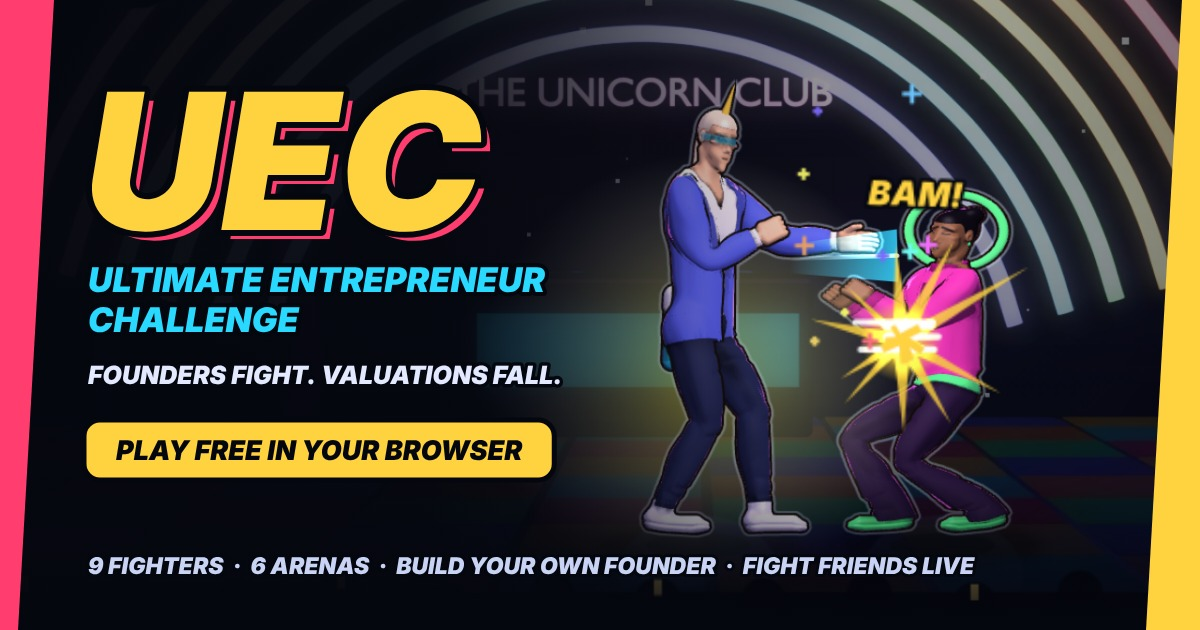
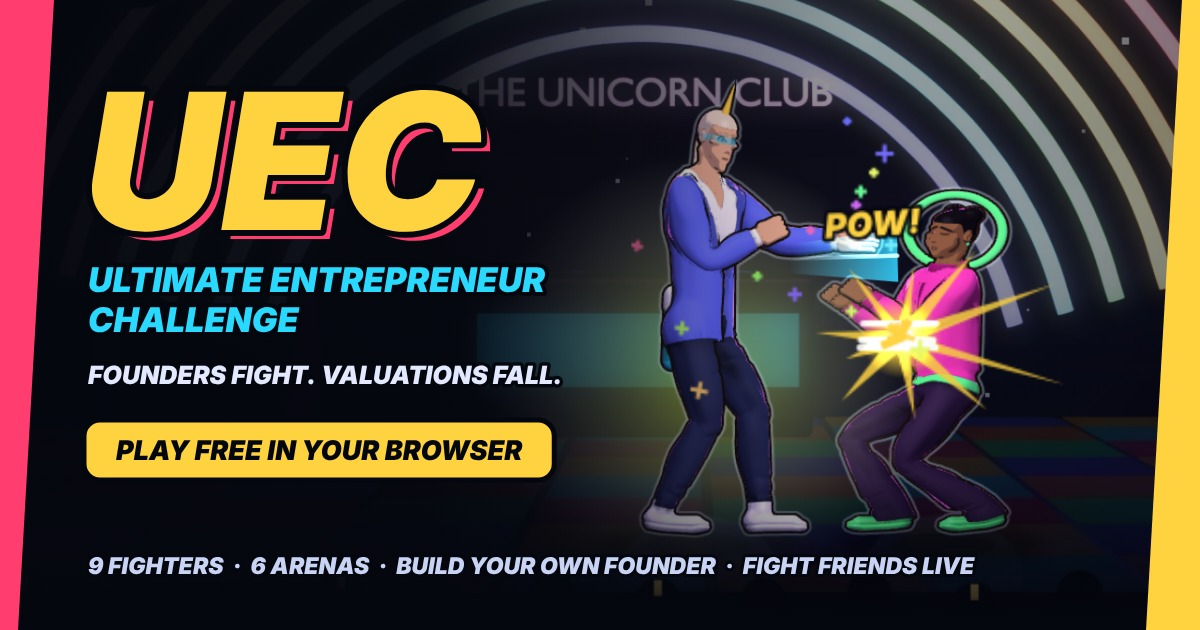
v3.23.1: the faces fixed
The owner, with Cathie's portrait: the characters look really messed up.
Every one of the nine had grey smudges under the fringe and round the eyes
(v3.23's baked shade on the skin) and a pale, waxy face (the skin
highlight and the sky term washing the painted features out).

Skin and hair are now lit their own way (toon.js softOf, occlusionOf,
skyOf, from GL3D.HEAD): no baked shade, no sky, crisp tones, no highlight
on skin and a faint one on hair. Clothes keep v3.23's light. The
portraits match v3.22.4's faces again. Render only, SIM_VERSION 15.

HANDOFF also has the owner's phone test (round thirteen): the new light
costs the Ahlo 1 about a frame a second and the iPhones nothing that shows.

Claude-Session: https://claude.ai/code/session_01HVpeDqPziq2XcJWsmeToHF

diff --git a/test/gl3d.test.js b/test/gl3d.test.js
@@ -635,3 +635,31 @@ test('the key line is thin and faint, and still there', async () => {
   assert.ok(STYLIZE.KEYLINE_PX <= 1.5 && STYLIZE.KEYLINE_PX >= 1, `${STYLIZE.KEYLINE_PX} px`);
   assert.ok(STYLIZE.KEYLINE_A <= 0.45 && STYLIZE.KEYLINE_A >= 0.25, `alpha ${STYLIZE.KEYLINE_A}`);
 });
+
+// v3.23 lit skin and hair like cloth: the baked shade left grey smudges under
+// a fringe and round the eyes, the skin highlight and the sky washed a face
+// to a pale, waxy mask (the owner, 2026-11-21, with Cathie's portrait: "the
+// characters look really messed up - needs fixing"). Skin and hair take
+// their own softness, no baked shade, no sky, and skin no highlight.
+test('skin and hair are lit cleanly: no baked shade, no sky, no skin highlight, crisper tones', async () => {
+  const { GL3D } = await import('../src/config.js');
+  const { softOf, occlusionOf, skyOf, glossOf } = await import('../src/engine/gl3d/toon.js');
+  for (const role of ['skin', 'hair']) {
+    assert.equal(occlusionOf(role), 0, `${role} takes the baked shade`);
+    assert.equal(skyOf(role), 0, `${role} takes the sky`);
+    assert.ok(softOf(role) > 0 && softOf(role) < GL3D.SOFT / 2, `${role} turns tone to tone across ${softOf(role)}`);
+  }
+  assert.equal(glossOf('skin')[0], 0, 'skin has a highlight');
+  assert.ok(glossOf('hair')[0] <= 0.1, 'hair\'s highlight whitens it');
+  // cloth keeps the modelled light
+  for (const role of ['suit', 'pants', 'suit*0.78']) {
+    assert.equal(softOf(role), GL3D.SOFT);
+    assert.equal(occlusionOf(role), GL3D.OCCLUSION);
+    assert.equal(skyOf(role), GL3D.SKY);
+  }
+  // and at SOFT 0 everything, heads too, is the flat bands
+  const soft = GL3D.SOFT;
+  try { GL3D.SOFT = 0; assert.equal(softOf('skin'), 0); } finally { GL3D.SOFT = soft; }
+  const toon = readFileSync(new URL('../src/engine/gl3d/toon.js', import.meta.url), 'utf8');
+  assert.match(toon, /gl\.uniform3f\(loc\.uSoft, softOf\(p\.role\), skyOf\(p\.role\), GL3D\.RIM_SOFT\);\s*gl\.uniform1f\(loc\.uOcc, occlusionOf\(p\.role\)\);/);
+});

diff --git a/src/engine/gl3d/toon.js b/src/engine/gl3d/toon.js
@@ -263,6 +263,20 @@ export const roleColour = (palette, role, own) => {
 // role in shade ('suit*0.78') is its palette colour's material.
 export const glossOf = (role) => GL3D.GLOSS[String(role || '').split('*')[0]] || GL3D.GLOSS.other;
 
+// Skin and hair are lit their own way (GL3D.HEAD, v3.23.1): a face is a
+// painted decal on a smooth head, and the modelled light and the baked shade
+// that give a coat its folds made it a pale, waxy mask with grey smudges
+// under the fringe and round the eyes (the owner, 2026-11-21: "the
+// characters look really messed up"). Their tones turn across HEAD.SOFT, not
+// SOFT, so a face keeps a clean shadow side as in v3.22, they take
+// HEAD.OCCLUSION of the baked shade and HEAD.SKY of the sky (which paled a
+// forehead and the top of a cheek). At SOFT 0 everything is flat bands.
+const HEAD_ROLES = new Set(['skin', 'hair']);
+const onHead = (role) => HEAD_ROLES.has(String(role || '').split('*')[0]);
+export const softOf = (role) => (GL3D.SOFT > 0 && onHead(role) ? GL3D.HEAD.SOFT : GL3D.SOFT);
+export const occlusionOf = (role) => (onHead(role) ? GL3D.HEAD.OCCLUSION : GL3D.OCCLUSION);
+export const skyOf = (role) => (onHead(role) ? GL3D.HEAD.SKY : GL3D.SKY);
+
 // Three parts of a 3D fighter, each on in the game: the antialiased drawing
 // buffer (read when a context is made, so a change needs a new one:
 // gl3d/index.js dropLayer3D), the ink outline (the inflated hull drawn behind
@@ -641,6 +655,8 @@ export function createToon({ onScreen = null } = {}) {
           if (!ink) {
             gl.uniform3fv(loc.uColor, colours(p));
             gl.uniform2fv(loc.uGloss, glossOf(p.role));
+            gl.uniform3f(loc.uSoft, softOf(p.role), skyOf(p.role), GL3D.RIM_SOFT);
+            gl.uniform1f(loc.uOcc, occlusionOf(p.role));
           }
           if (alpha !== undefined) gl.uniform1f(loc.uAlpha, alpha);
           if (faced) gl.uniform4fv(loc.uFaceCell, face.cell);

diff --git a/src/config.js b/src/config.js
@@ -1,7 +1,7 @@
 // Central tuning for the whole game. All gameplay numbers live here.
 
 // Bump this on every release — it's rendered on the title screen.
-export const VERSION = 'v3.23';
+export const VERSION = 'v3.23.1';
 
 // Every player fights on identical footing. Your base character is pure
 // cosmetics: it decides how you LOOK, never how hard you hit. Ranked points
@@ -804,9 +804,15 @@ export const GL3D = {
   SKY: 0.12,
   RIM_SOFT: 0.10,
   GLOSS: {
-    skin: [0.16, 12], hair: [0.20, 22], shoe: [0.24, 34], brass: [0.6, 44], frame: [0.35, 44],
+    skin: [0, 12], hair: [0.08, 22], shoe: [0.24, 34], brass: [0.6, 44], frame: [0.35, 44],
     lens: [0.5, 70], case: [0.14, 20], other: [0.05, 8],
   },
+  // Skin and hair (v3.23.1, toon.js softOf): a face is a painted decal, and
+  // the light that models a coat made it a pale, waxy mask with grey smudges
+  // under the fringe (the owner: "the characters look really messed up").
+  // Their tones turn across HEAD.SOFT, not SOFT; they take HEAD.OCCLUSION of
+  // the baked shade and HEAD.SKY of the sky; skin has no highlight (GLOSS).
+  HEAD: { SOFT: 0.08, OCCLUSION: 0, SKY: 0 },
   SHADOW_TINT: [0.86, 0.88, 1.06],
   RIM: 0.40,
   RIM_COLOR: [0.5, 0.47, 0.42],   // the rim on the key side, scaled by RIM

diff --git a/docs/HANDOFF.md b/docs/HANDOFF.md
@@ -16,15 +16,18 @@ step and no dependencies, and the repository is the website: GitHub Pages
 serves `main` at `https://aurmada.github.io/uec-ultimate-entrepreneur-challenge/`,
 so a push to `main` is a release.
 
+- **Built, not yet released:** v3.23.1 (2026-11-21), on `claude/v3.23`:
+  the faces fixed (see "v3.23.1"). Render only, `SIM_VERSION` still 15.
+  Waiting for the owner's word to push.
 - **Live:** v3.23, released 2026-11-17 (`VERSION` in `src/config.js`;
   `SIM_VERSION` 15 in `src/net/online.js`), with v3.22.5 inside it (v3.22.5
   was never released on its own). 3D only.
 - **What v3.23 changed:** the fighters in modelled light, all nine rebuilt
   with baked shade and cloth folds, the cast's heights brought in to about
   15%, and a thinner, fainter key line (see "v3.23"). It plays only v3.23
-  online. Not yet timed on a phone: run round thirteen of
-  `lab/phone-test.html` on the live site (its `d3-flat` setup says what the
-  new light costs), and tell the owner if it is over rule 9's budget.
+  online. Timed on the owner's phones 2026-11-20 (see "v3.23.1"): the new
+  light costs about a frame a second on the Ahlo 1 and nothing that shows
+  on the iPhones.
 - **What v3.22.5 changed:** a check of everything before launch: the fight
   sharp on a monitor, the share card cut from the 3D game, whole names on a
   phone, K.O.! alone, a larger VS splash, and the game's words without em
@@ -411,6 +414,40 @@ Everything below is how the game got here: each release with what changed,
 why, what was measured and what was tried and dropped, then the work on
 branches, the 3D prototype's story, October's plan and the opening of this
 file as it stood on 2026-11-12.
+
+## v3.23.1, built 2026-11-21: the faces fixed
+
+The owner, four days after v3.23 went out, with a phone screenshot of
+Cathie's portrait: "the characters look really messed up - needs fixing".
+Rendered beside v3.22.4, every one of the nine had the same two faults, both
+from v3.23's light, which was tuned on bodies at fight size and never looked
+at in a portrait:
+
+- **Grey smudges** across the forehead under a fringe and round the eyes:
+  the baked shade (`occlude`) on the skin. A face is a painted decal on a
+  smooth head, and the hair sits a few millimetres off it, so every ray from
+  the forehead met the fringe.
+- **A pale, waxy mask**: the skin's broad highlight (`GLOSS.skin`) and the
+  sky term brightening every surface that faces up, which together washed
+  the painted features out.
+
+Switching each piece off in turn (`lab`-style renders of the nine portraits)
+put the blame there, and not on the face decals, which had scaled with each
+head when the heights were brought in. The fix is in `toon.js`: skin and
+hair are lit their own way (`softOf`, `occlusionOf`, `skyOf`, by role,
+from `GL3D.HEAD`): no baked shade, no sky, tones that turn across 0.08 of
+the key light's cosine (crisp, as v3.22's bands were, a little softened),
+no highlight on skin and a faint one on hair. Clothes keep everything v3.23
+gave them. The portraits now match v3.22.4's faces, and the fight at full
+size is unchanged but for the heads. Render only: `SIM_VERSION` stays 15.
+
+**The phone test** (round thirteen, rows 152 to 162 of `perf_reports`,
+2026-11-20 and 21, all on v3.23): the Ahlo 1 drew 19.5 frames a second in
+full (`d3`) and 20.8 and 20.0 with the flat bands (`d3-flat`), so the
+modelled light costs it about a frame a second; half resolution still gives
+28, which is where its governor settles. The owner's iPhones drew 55 to 60
+in full and the iPad 60, with nothing between `d3` and `d3-flat` beyond the
+noise between two runs of the same setup (`d3-again`). Within rule 9.
 
 ## v3.23, released 2026-11-17: modelled light, the cast rebuilt, heights brought in
 

diff --git a/CLAUDE.md b/CLAUDE.md
@@ -6,7 +6,7 @@ Read in this order: `docs/HANDOFF.md` (where things stand, how the parts connect
 
 ## Branches
 
-- `main`: the live game (see `VERSION` in `src/config.js`; v3.23 in November 2026). It is 3D, and only 3D since v3.22.4 (the owner's call): 3D fighters, Blender-rendered stages and fighting-game effects, the roster in their sculpted models fighting in their own forms. A browser without WebGL2 is told so instead of being given the classic 2D game, and the 2D rig is kept for the lab alone (`RIG2D` in `src/engine/drawFighter.js`). `docs/HANDOFF.md` lists the other branches and which are released.
+- `main`: the live game (see `VERSION` in `src/config.js`; v3.23.1 in November 2026). It is 3D, and only 3D since v3.22.4 (the owner's call): 3D fighters, Blender-rendered stages and fighting-game effects, the roster in their sculpted models fighting in their own forms. A browser without WebGL2 is told so instead of being given the classic 2D game, and the 2D rig is kept for the lab alone (`RIG2D` in `src/engine/drawFighter.js`). `docs/HANDOFF.md` lists the other branches and which are released.
 - `live-3d` and `claude/game-review-enhance-29bffb`: the prototype's earlier branches, superseded by `main`. Work on the 3D path now branches from `main`.
 
 ## Run and test

diff --git a/README.md b/README.md
@@ -71,6 +71,10 @@ Touch pads appear automatically on phones/tablets (or force them with `?touch=1`
 
 **Parry:** tap block at the instant a hit lands (0.12 s window): the attacker staggers and you gain energy. Grabs beat parries; parries beat everything else.
 
+## What's new in v3.23.1: faces fixed
+
+- 🙂 **Clean faces again.** v3.23's new light left grey smudges under the hair and washed faces out to a pale, waxy look. Skin and hair are now lit as they were before, while clothes keep the new light.
+
 ## What's new in v3.23: a new light on the fighters
 
 - 💡 **Modelled light.** Every fighter was drawn in three flat tones. They are now lit like solid figures: forms round into shadow, skin, hair and shoes catch a highlight, and each stage's back light traces the whole outline.
